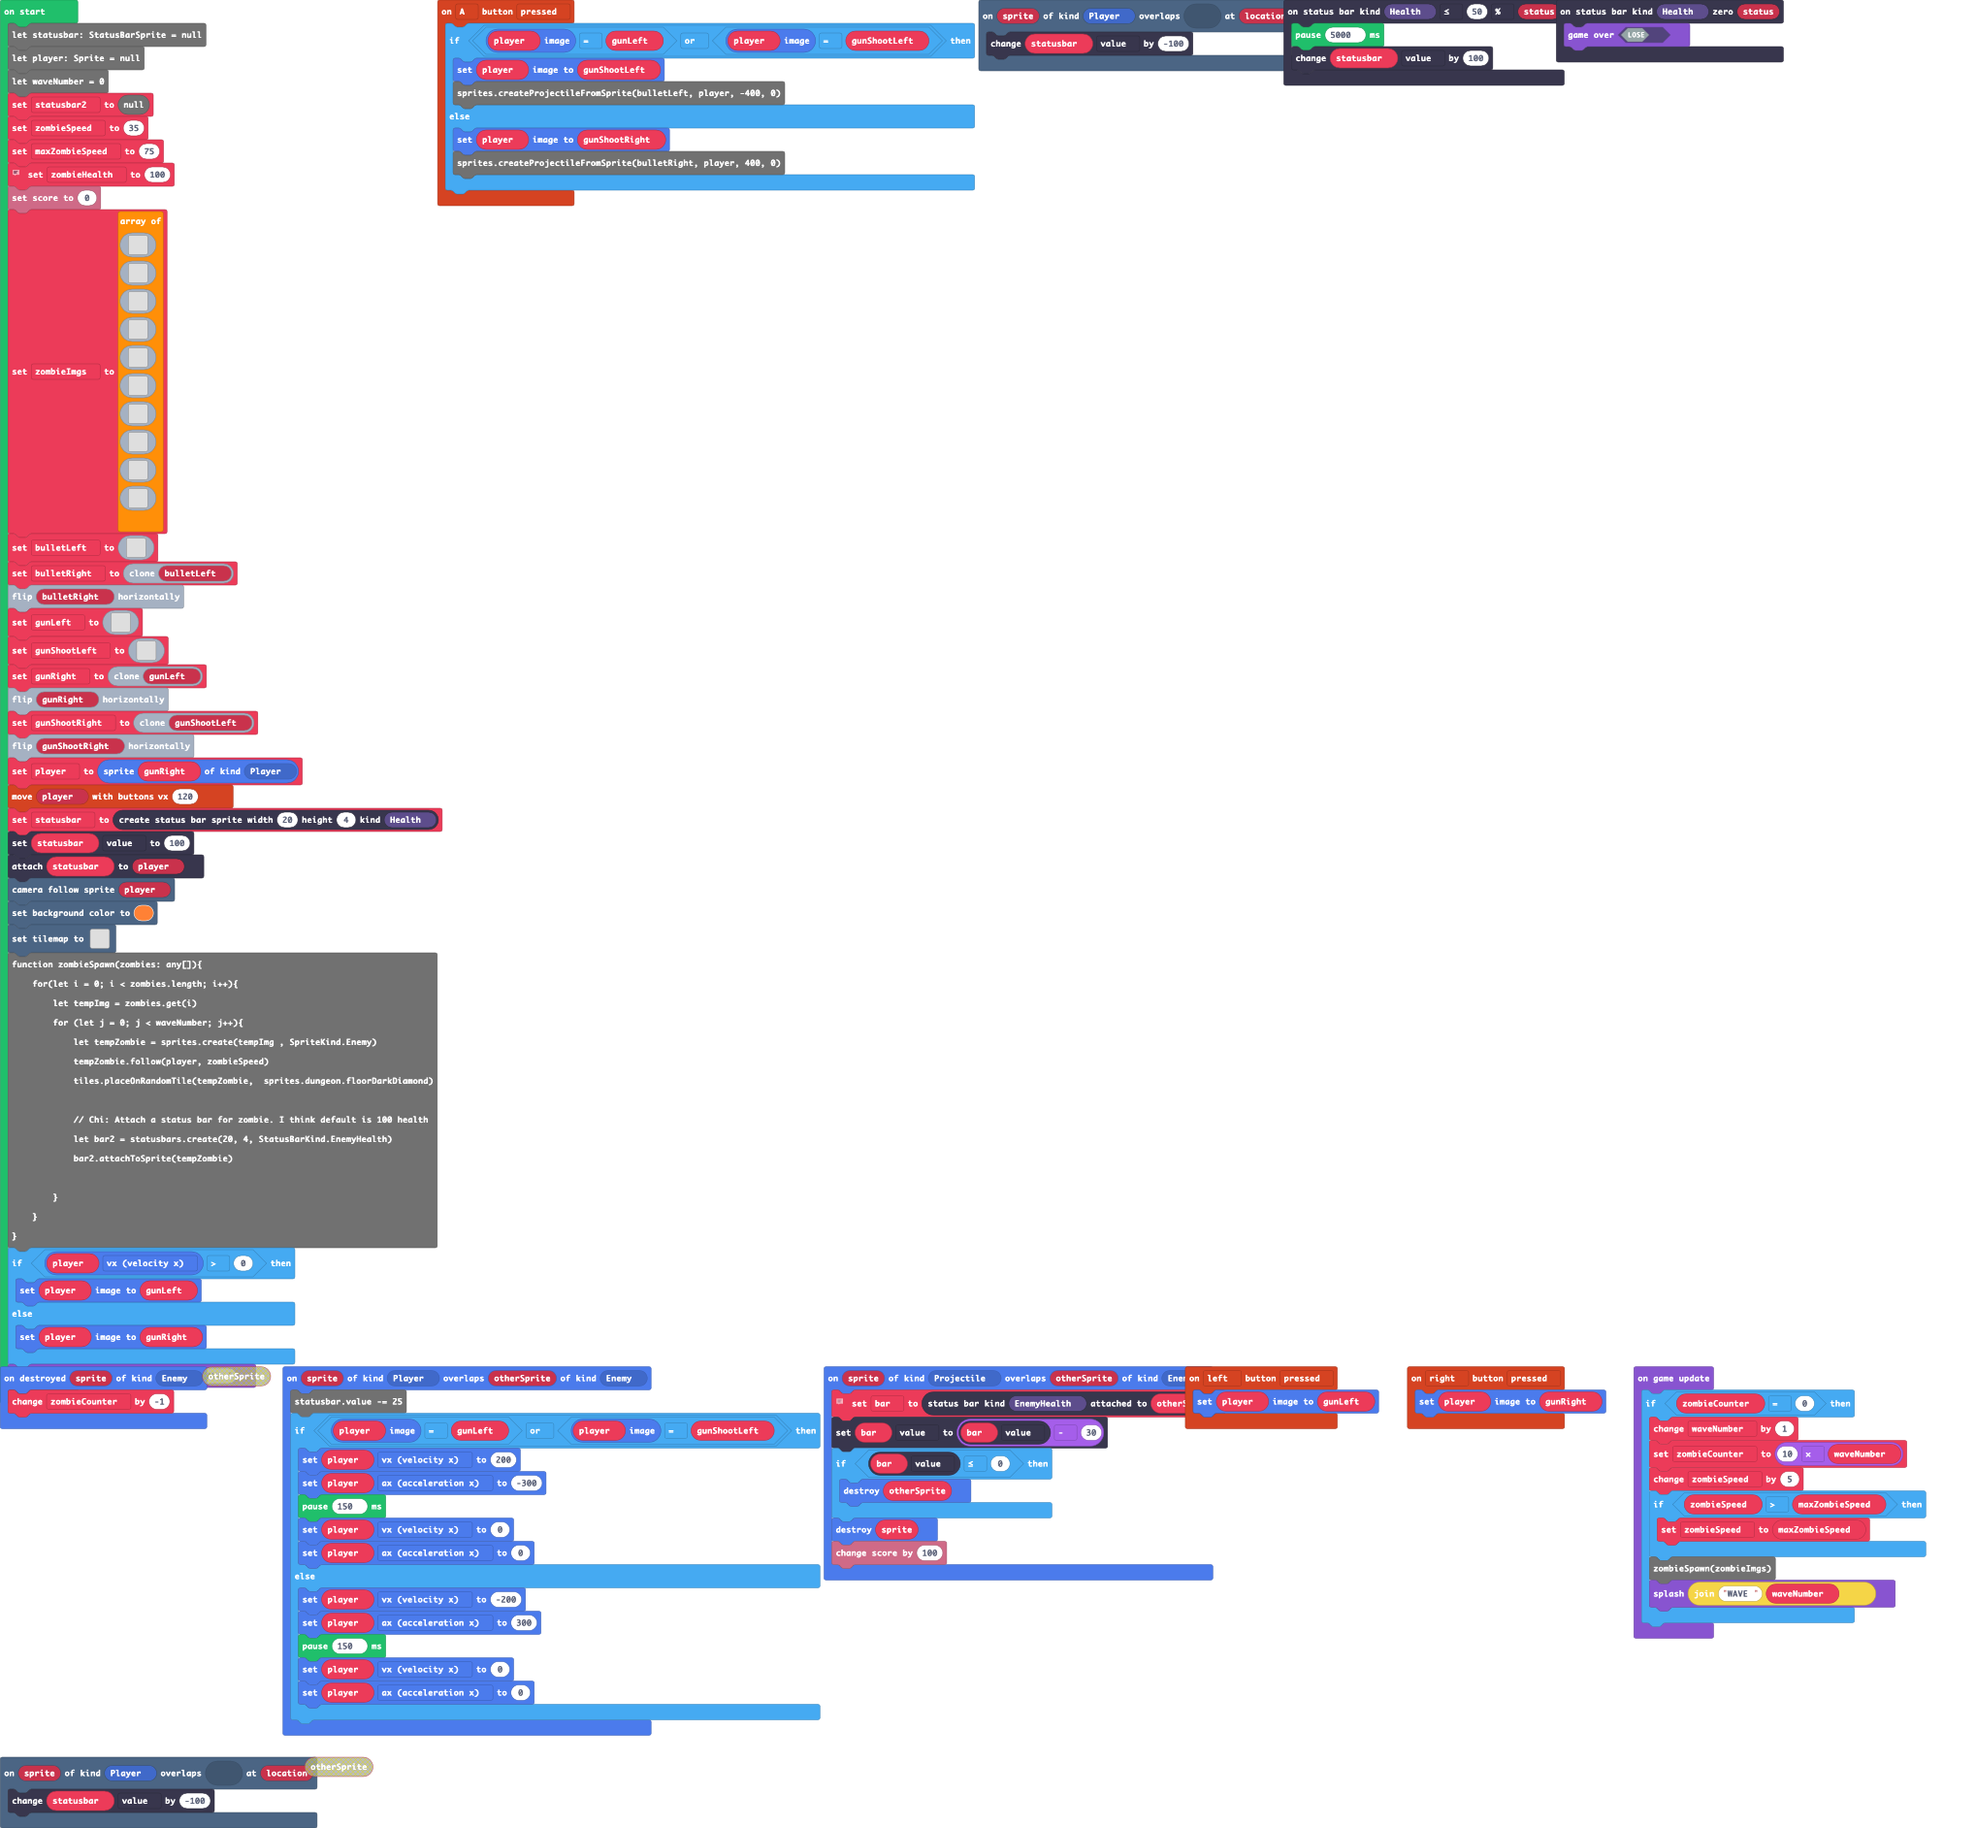
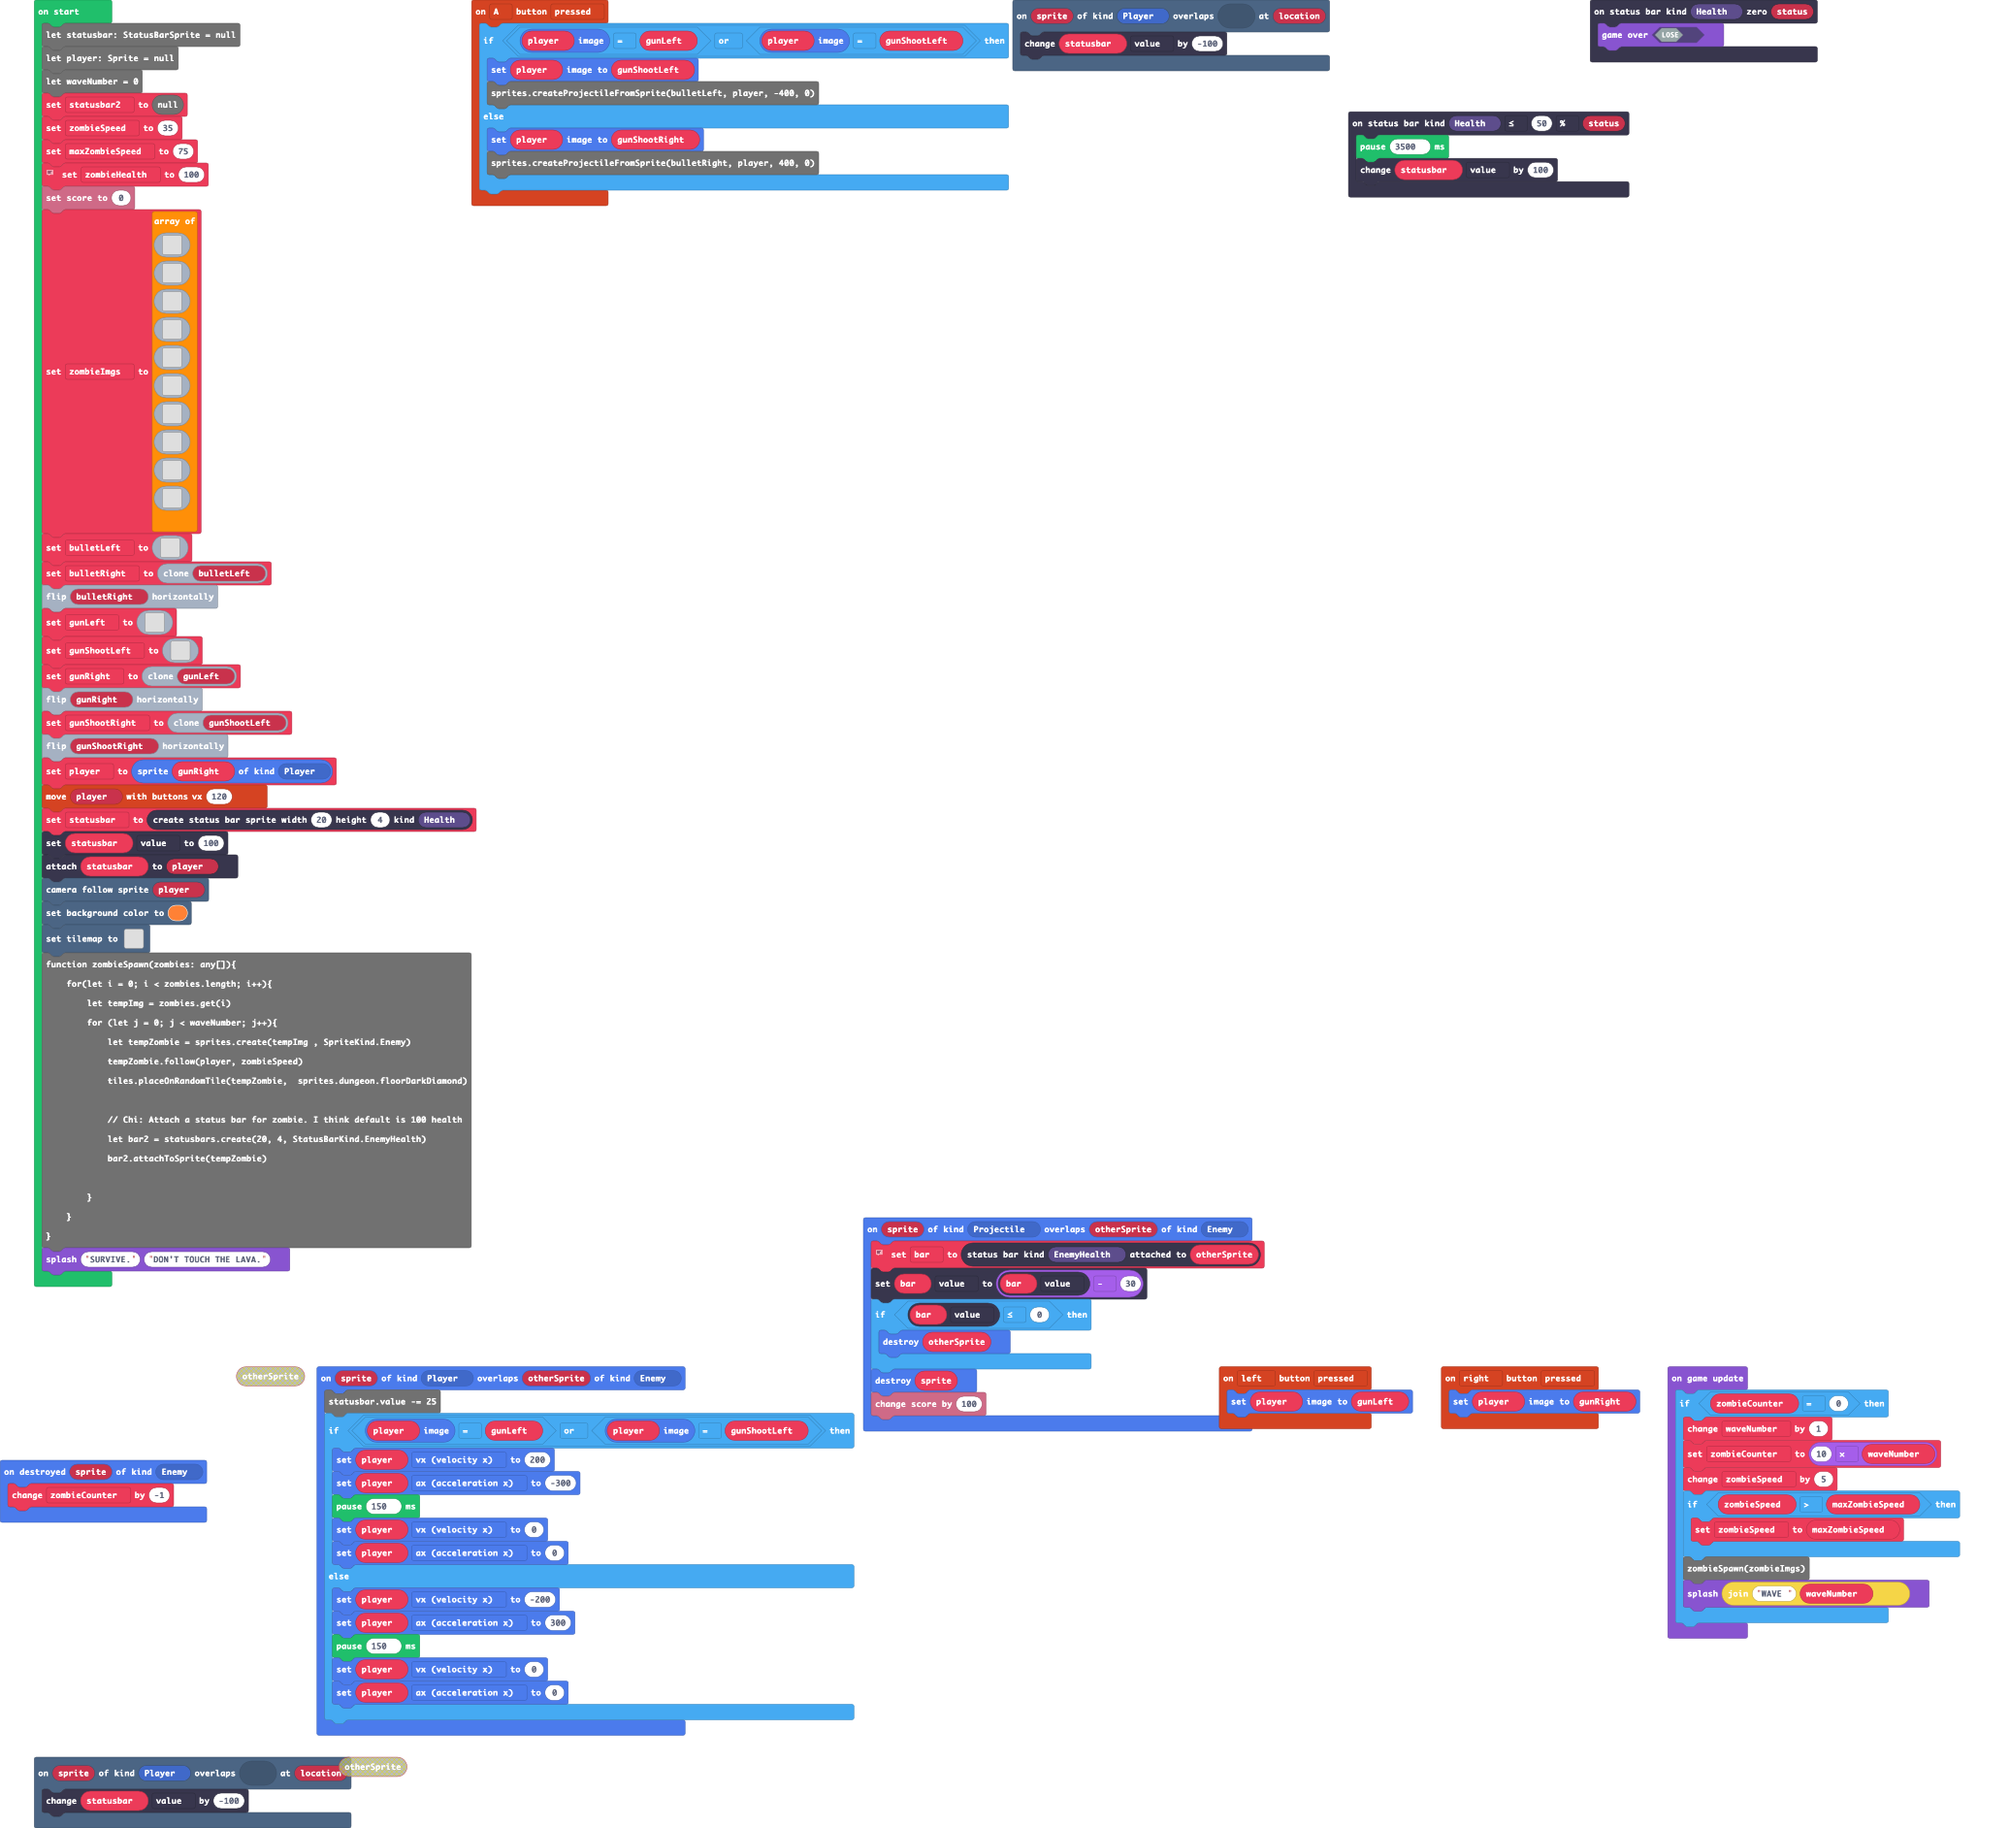
Update main.blocks, main.ts

Changed region(s): [[0.0, 0.0, 0.9278, 1.0], [0.2165, 0.0, 0.866, 0.1231], [0.3093, 0.9236, 0.3402, 0.9544]]

diff --git a/main.ts b/main.ts
@@ -11,7 +11,7 @@ scene.onOverlapTile(SpriteKind.Player, sprites.dungeon.hazardLava0, function (sp
     statusbar.value += -100
 })
 statusbars.onStatusReached(StatusBarKind.Health, statusbars.StatusComparison.LTE, statusbars.ComparisonType.Percentage, 50, function (status) {
-    pause(5000)
+    pause(3500)
     statusbar.value += 100
 })
 controller.left.onEvent(ControllerButtonEvent.Pressed, function () {
@@ -444,11 +444,6 @@ function zombieSpawn(zombies: any[]){
             
         }
     }
-}
-if (player.vx > 0) {
-    player.setImage(gunLeft)
-} else {
-    player.setImage(gunRight)
 }
 game.splash("SURVIVE.", "DON'T TOUCH THE LAVA.")
 game.onUpdate(function () {
